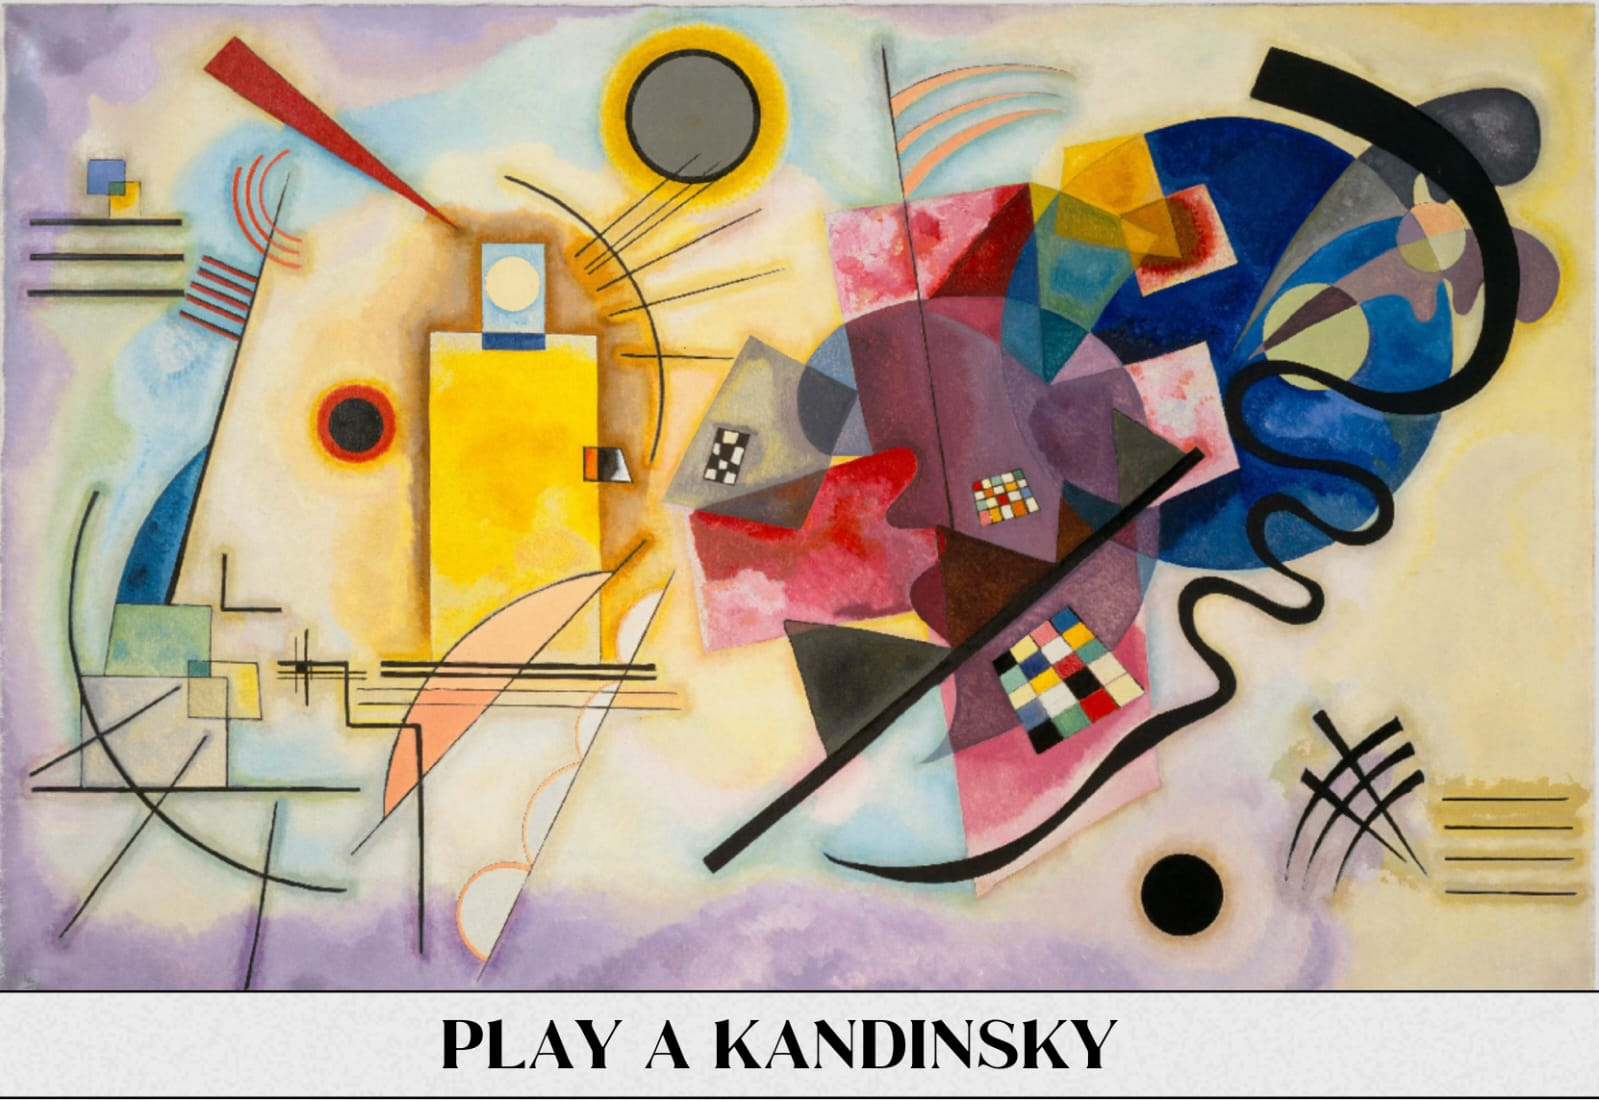
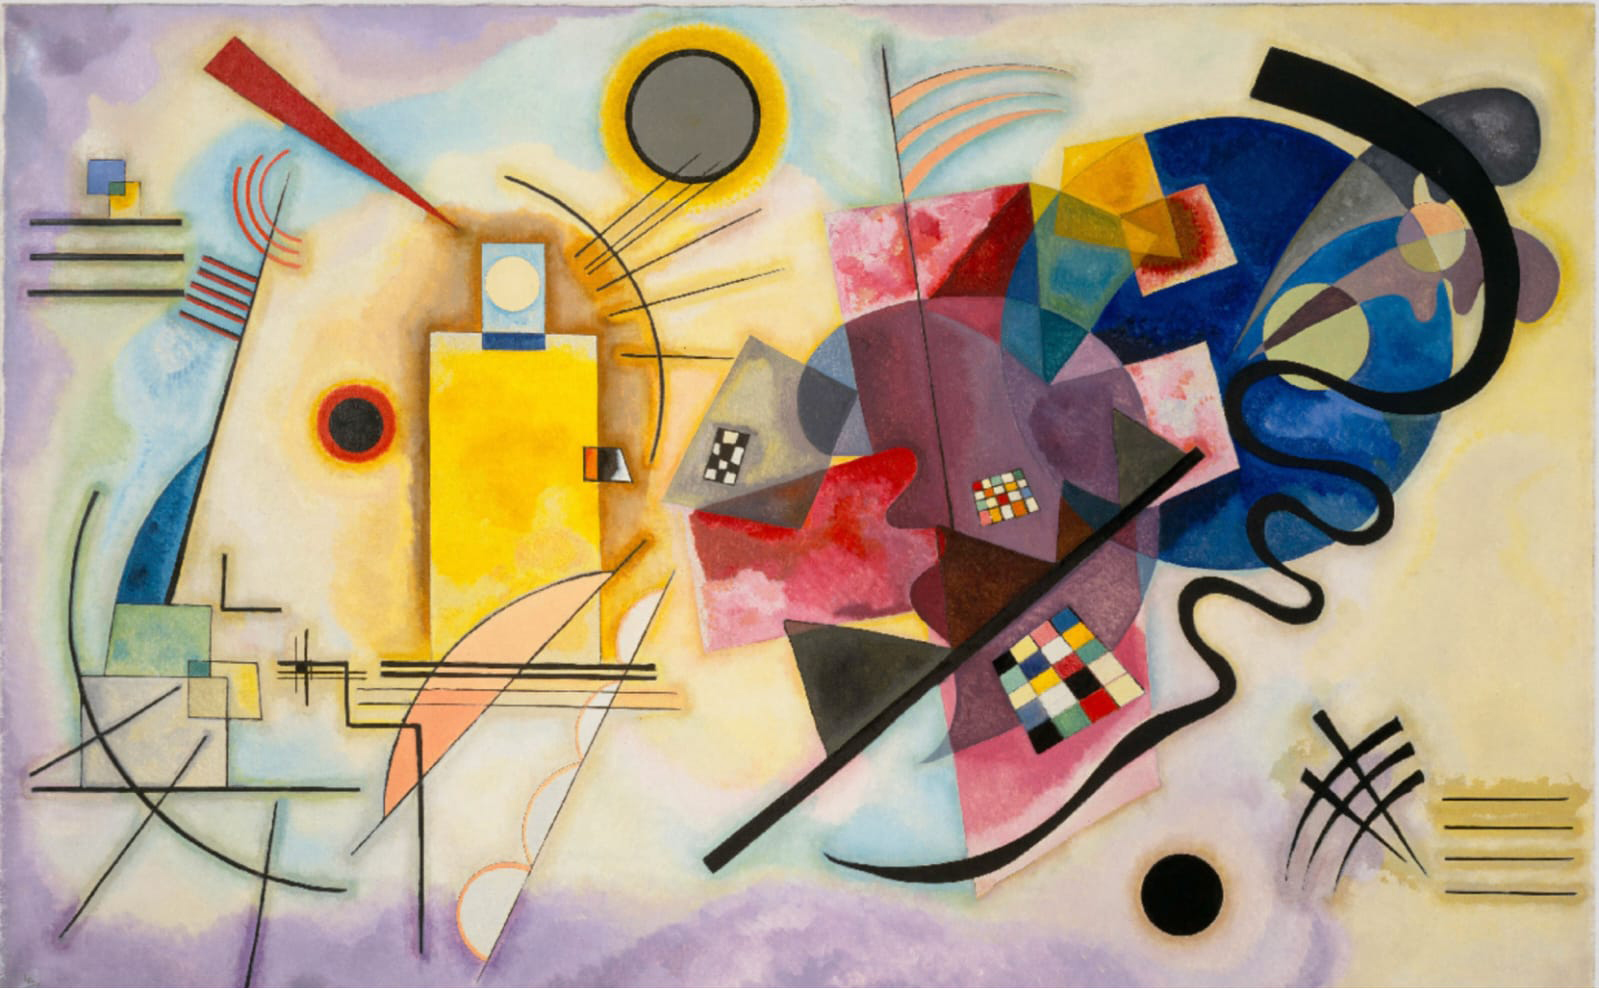
sppa alter1

diff --git a/associacao.html b/associacao.html
@@ -189,13 +189,13 @@
         <li class="sumario--iconetexto"><img src="img/SVG/SVG/seta.svg" class="seta"><a class="sumarioitens" href="dia.html">Diretoria Infância e Adolescência</a></li>  
         <li class="sumario--iconetexto"><img src="img/SVG/SVG/seta.svg" class="seta"><a class="sumarioitens" href="comite_familia.html">Comitê de Psicanálise de Família e Casal</a></li>  
         <!-- <li class="sumario--iconetexto"><img src="img/SVG/SVG/seta.svg" class="seta"><a class="sumarioitens" href="comite_familia.html">Comitê de Psicanálise de Família e Casal</a></li>  
-        <!-- <li class="sumario--iconetexto"><div class='dropdown' data-dropdown>
+        <li class="sumario--iconetexto"><div class='dropdown' data-dropdown>
           <img src="img/SVG/SVG/seta.svg" class="seta"><a class="sumarioitens" href="javascript:;" data-dropdown-button>Comitês</a>
             <div class="dropdown-menu">
               <p><a class="sumarioitens" href="comite_cowap.html">| Mulheres e Psicanálise</a></p>
               <p><a class="sumarioitens" href="comite_familia.html">| Família e Casal</a></p>
             </div> 
-        </div></li>  --> -->
+        </div></li>  --> 
         <li class="sumario--iconetexto"><img src="img/SVG/SVG/seta.svg" class="seta"><a class="sumarioitens" href="comunidade.html">Diretoria de Ações na Comunidade</a></li>
         <li class="sumario--iconetexto"><img src="img/SVG/SVG/seta.svg" class="seta"><a class="sumarioitens" href="cultura.html">Diretoria de Psicanálise na Cultura</a></li>
         <li class="sumario--iconetexto"><img src="img/SVG/SVG/seta.svg" class="seta"><a class="sumarioitens" href="associacao.html">Associação de Candidatos</a></li>

diff --git a/css/app.css b/css/app.css
@@ -106,7 +106,7 @@ main {
 
 
 .capaobra {
-  width: 42rem;
+  width: 55rem;
   margin: 1rem 1rem;
 }
 
